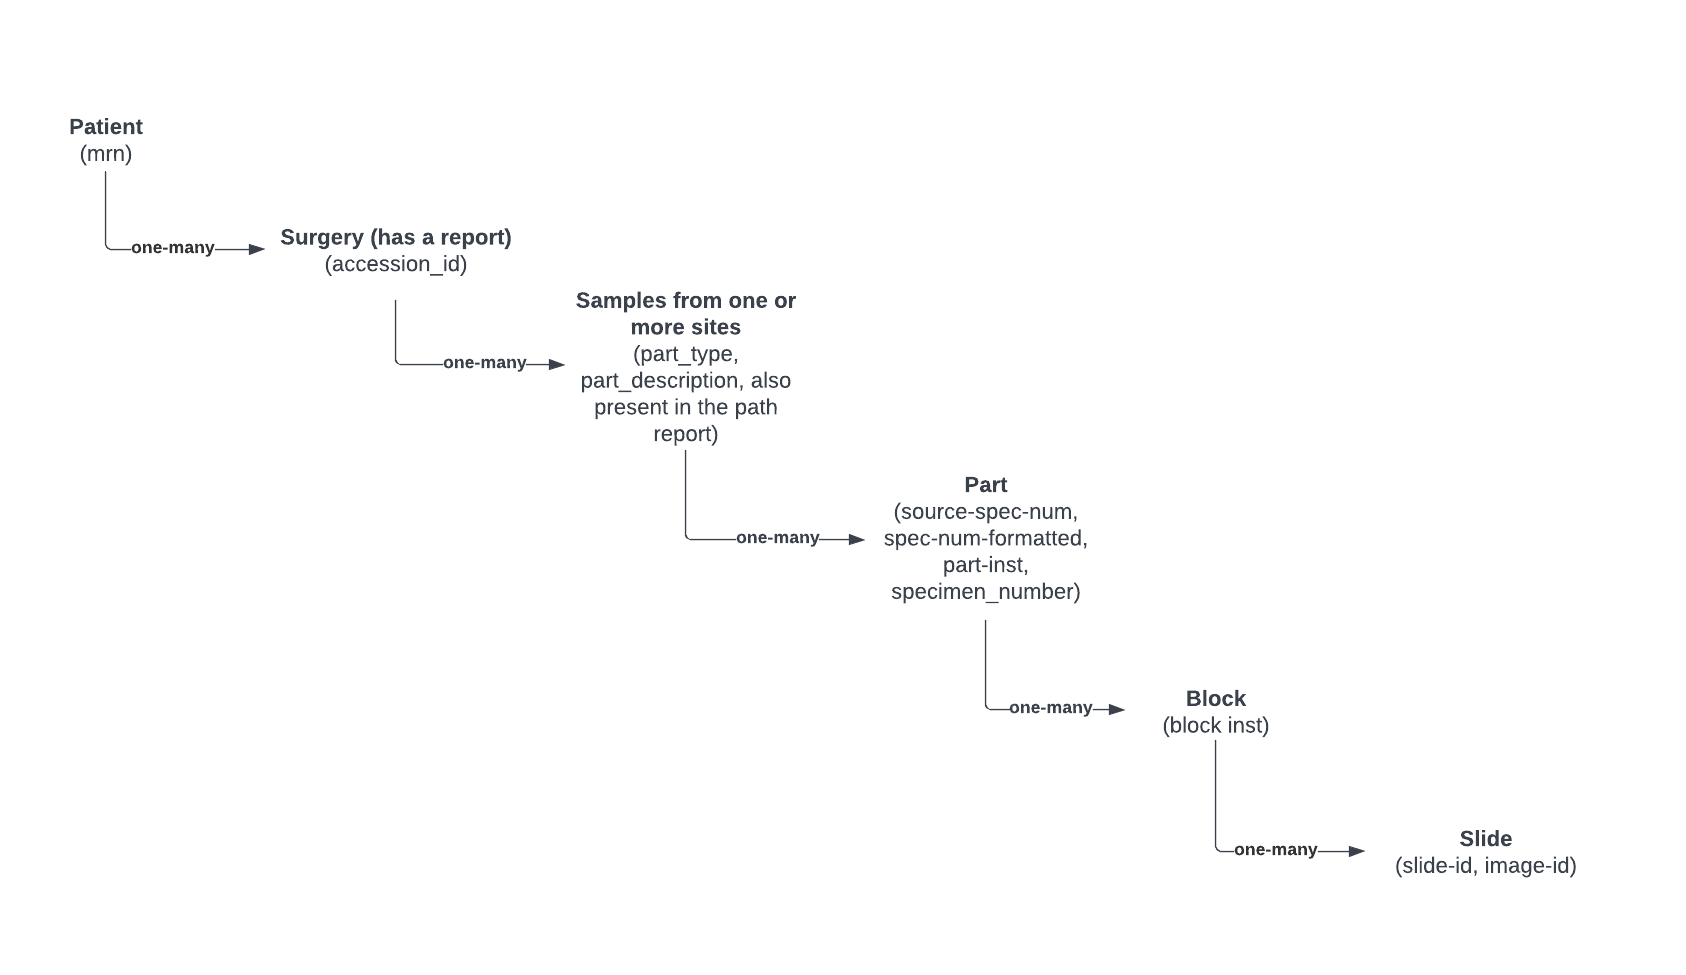
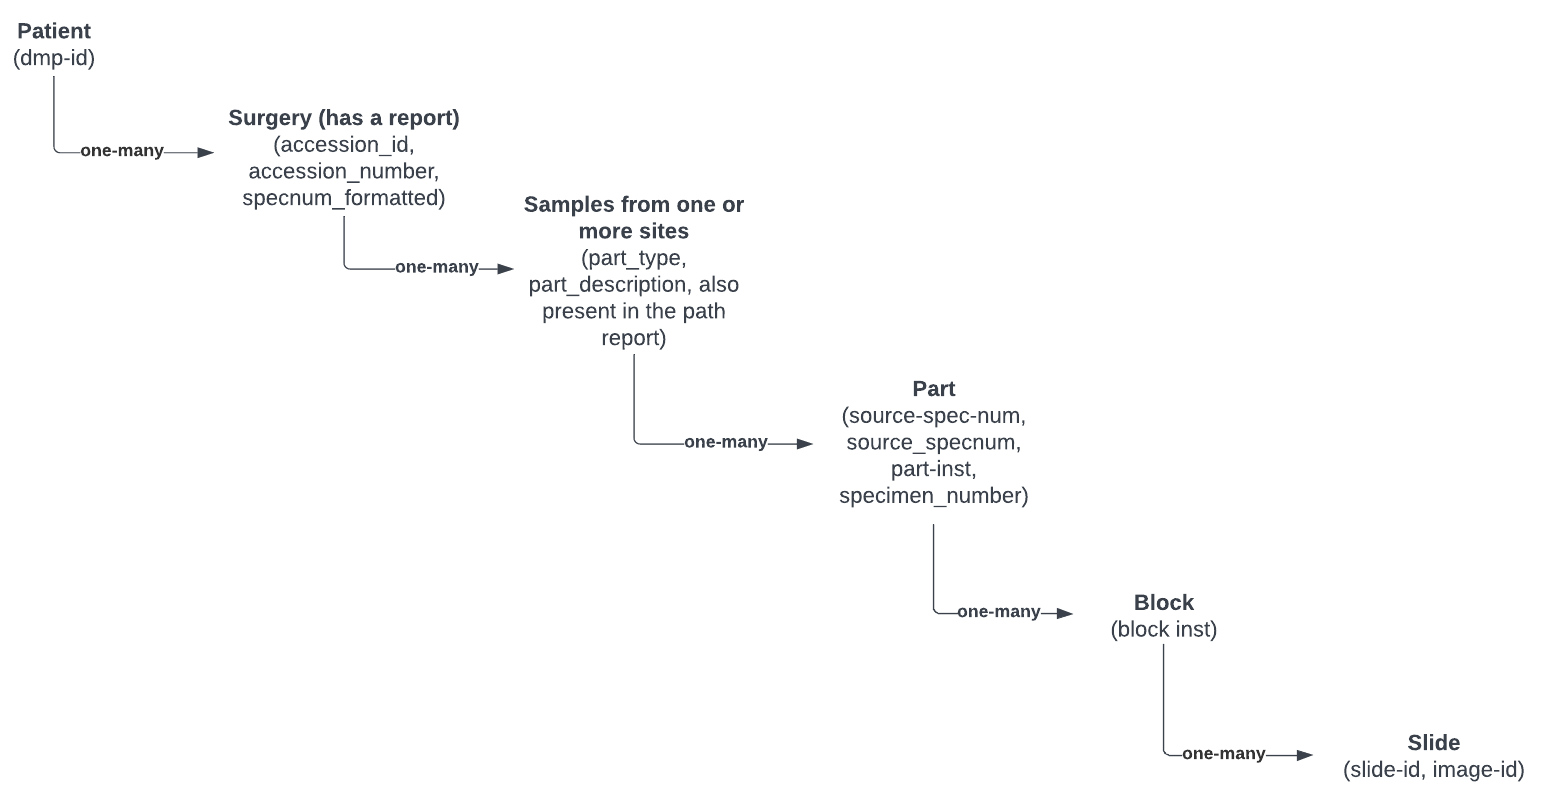
update id hierarchy figure

diff --git a/hobbit/hobbit-casebreakdown.md b/hobbit/hobbit-casebreakdown.md
@@ -32,6 +32,8 @@ The case_breakdown table, contains information for a slide in each row, indexed 
 
 Tissue that is resected from a patient (identified by `mrn`) during surgery (`specnum_formatted`) is sent to the Dept. of Pathology where it is processed. Tissue may be resected from multiple anatomical sites from a single surgical procedure. Processing involves breaking up the tissue from each anatomical site (`part_type`, `part_description`) into parts (`part_inst`) and blocks (`block_inst`, `blkdesig_label`). A part can contain many blocks. Both parts and blocks are given designator labels called part number and block number. Certain blocks of interest are then selected to create slides.
 
+The figure below illustrates the identifier hierarchy and also provides commonly used names/aliases for each of the identifiers.
+
 <img src="figures/hobbit_image_id_hierarchy.png" width=70% /> 
 
 ##### What are the types of slides that are available? 
